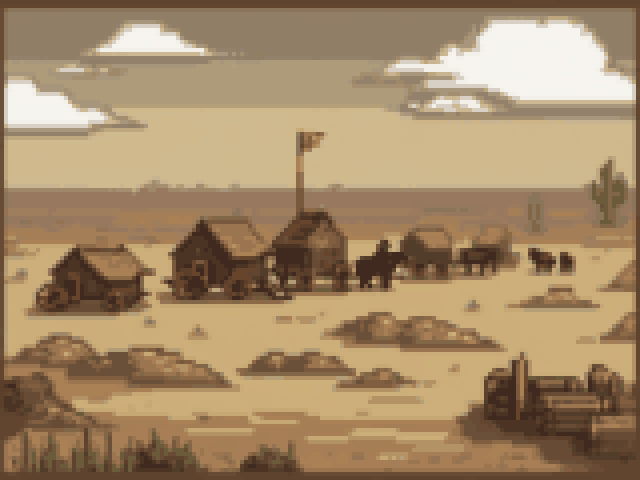
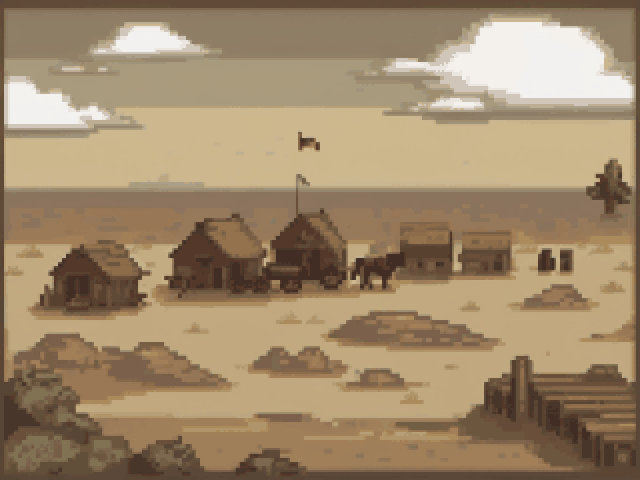
fix(karma): stop 10s no-op poll re-rendering all wallet consumers; swap 3 upgraded place-art PNGs
- checkOnline poll now bails out of setState when isOnline/pendingCount
  unchanged; context value memoized (was fresh identity every render on
  the outermost provider — 43 consumers re-rendered every 10s, the QA #4
  flaky-click class). Verified: 0 DOM mutations in 22s idle, purchases
  still update balance.
- place-art swaps per Aurelia visual review: ch1_fort_kearny (2px
  re-render, fixes softness), san_andreas (u_d0.66_s2432), sandy_gulch
  (first version without Google-Maps UI in frame). Originals in
  public/place-art/backup_pre_upgrade_20260714/ (untracked).
- QA doc: window-3 results + 5 new bugs queued (#8-#12).

diff --git a/src/app/oregon-trail/karmaWalletContext.tsx b/src/app/oregon-trail/karmaWalletContext.tsx
@@ -1,6 +1,6 @@
 'use client'
 
-import React, { createContext, useContext, useState, useCallback, useEffect, useRef, ReactNode } from 'react'
+import React, { createContext, useContext, useState, useCallback, useEffect, useMemo, useRef, ReactNode } from 'react'
 import {
   KarmaBlockchainClient,
   KarmaBalance,
@@ -249,11 +249,13 @@ export function KarmaWalletProvider({ children }: KarmaWalletProviderProps) {
   useEffect(() => {
     const checkOnline = async () => {
       const online = await oregonTrailKarma.checkConnection()
-      setState(prev => ({
-        ...prev,
-        isOnline: online,
-        pendingTransactions: oregonTrailKarma.pendingCount,
-      }))
+      setState(prev => {
+        const pending = oregonTrailKarma.pendingCount
+        // Bail out when nothing changed — returning prev skips the re-render
+        // (this poll was re-rendering every karma consumer every 10s).
+        if (prev.isOnline === online && prev.pendingTransactions === pending) return prev
+        return { ...prev, isOnline: online, pendingTransactions: pending }
+      })
     }
 
     checkOnline()
@@ -688,7 +690,9 @@ export function KarmaWalletProvider({ children }: KarmaWalletProviderProps) {
     }))
   }, [])
 
-  const value: KarmaWalletContextValue = {
+  // Memoized so context identity only changes when state (or a callback) does —
+  // otherwise any provider re-render fans out to every useKarmaWallet consumer.
+  const value: KarmaWalletContextValue = useMemo(() => ({
     // State
     balance: state.balance,
     isOnline: state.isOnline,
@@ -737,7 +741,15 @@ export function KarmaWalletProvider({ children }: KarmaWalletProviderProps) {
     setShowConvertModal,
     convertModalContext,
     setConvertModalContext,
-  }
+  }), [
+    state,
+    initializeWallet, spendNeutral, spendGood, earnNeutral, earnGood,
+    addBadKarma, earnFromDonation, convertGoodToNeutral, takeDebt,
+    canAfford, getAffordableAmount, refreshBalance,
+    getKarmaAlignment, getAlignmentDisplayName, getDiscountMultiplier,
+    recordLawfulAction, recordChaoticAction, recordGoodAction, recordEvilAction,
+    loadKarmaState, showConvertModal, convertModalContext,
+  ])
 
   return (
     <KarmaWalletContext.Provider value={value}>

diff --git a/docs/QA_LOOP_20260714.md b/docs/QA_LOOP_20260714.md
@@ -29,6 +29,20 @@
 - Next.js dev overlay showed "2 Issues" on town screen, "4 Issues" during travel (likely image-sizes/hydration warnings) — un-triaged, check overlay next window.
 - NOT re-tested this window (verified window 1): Investigate, witness tree, Kansas River. NOT yet: Hunt, Camp, Wagonwright's, Apothecary, Blacksmith, Guides, Posse, Puzzle, other game entries (adventure/explore/prologue/playtest).
 
+## Window 3 (team-of-agents pass, evening — full-auto)
+- [x] **#4 karma-poll re-render FIXED + VERIFIED**: root cause = 10s checkOnline poll setState with fresh object even when unchanged (outermost provider → all 43 useKarmaWallet consumers re-render) + unmemoized context value. Fix: bail-out compare in poll updater + useMemo on context value (karmaWalletContext.tsx). Verified live: 0 DOM mutations in 22s idle (was churning every 10s); purchase still updates balance (240→230🌮).
+- [x] Remaining town buttons QA (agent, 96 tool calls): Camp/Wagonwright's/Blacksmith/Posse PASS · Journal/Dossiers/Relations/Character/ESC-menu/Save-Load all PASS.
+- [x] ART SWAPPED (Aurelia visual review vs chimney-rock bar): ch1_fort_kearny (2px re-render — root cause of softness was old 160x120 pixelize preset) · san_andreas (candidate u_d0.66_s2432, NOT the metric pick — d0.74 broke family style) · sandy_gulch UNBLOCKED (clean crop of maps ref; original had literal Google UI, must never ship). Originals: backup_pre_upgrade_20260714/; candidates+montages: upgraded_20260714/.
+- NEW BUGS (found by QA agent, NOT yet fixed — next window's fix list):
+  - [ ] #8 ALL 78 dev-overlay issues = ONE root cause: starting party members all get `id:"leader"` (dup React keys at TownScreen.tsx:271, CampMenu.tsx:459/550; also causes everyone-shows-LEADER-badge in Camp). Fix = unique ids at party creation + save migration for existing saves.
+  - [ ] #9 Apothecary: Mountain Vitality Elixir charges 20🌮 but heals nothing, stock doesn't decrement (contrast Blacksmith knife: charges AND applies AND decrements — use as model).
+  - [ ] #10 Puzzle: solved-screen rewards only grant karma — medicine/parts/XP not applied; step counter can exceed total on retries ("Step 4 of 2").
+  - [ ] #11 Guides: hired guide charges 15🌮 but lives only in React memory — not in any localStorage key, vanishes on reload (posse hire persists correctly; asymmetry).
+  - [ ] #12 Hunt in town: instant food (+146-183 lb), no day cost, infinitely repeatable = food-farm exploit; also no hunt scene/minigame appears.
+  - Save/Load slot "Party: 3" vs 4 members listed (posse member uncounted) — minor.
+- GOTCHAS for future QA (agent-discovered): `oregon_trail_settlement` key independently forces "The Departed" screen (reset it too when crafting saves) · page writes state to localStorage ON UNLOAD — edit saves from a non-game same-origin URL (e.g. 404 page), then load /oregon-trail fresh.
+- NOTE: Chrome lost all windows mid-evening (known GPU/Wayland crash class); QA continued in new tab 72449854. Test save left at Day 15 Fort Kearny, party +Billy Buck (posse), ~230🌮.
+
 ## Session-window 1 state (context-boundary checkpoint, ~17:30)
 VERIFIED WORKING this window: home (fixed acreage + image warnings), hub one-menu + all cards, new-game flow (name/party -> store -> dice-roll character creation w/ correct math -> trail), travel loop + pace, 3 event types w/ stat-variant tags, Kansas River full crossing (art + caulk&float + skill DCs), Fort Kearny arrival (raster art), town menu, Investigation locations, witness interview tree (2 bugs fixed live).
 GAME SAVE: "Leif" party (Goda/Rabbit/Tobias), Day 15, AT Fort Kearny mid-town — Continue Game resumes exactly here.
